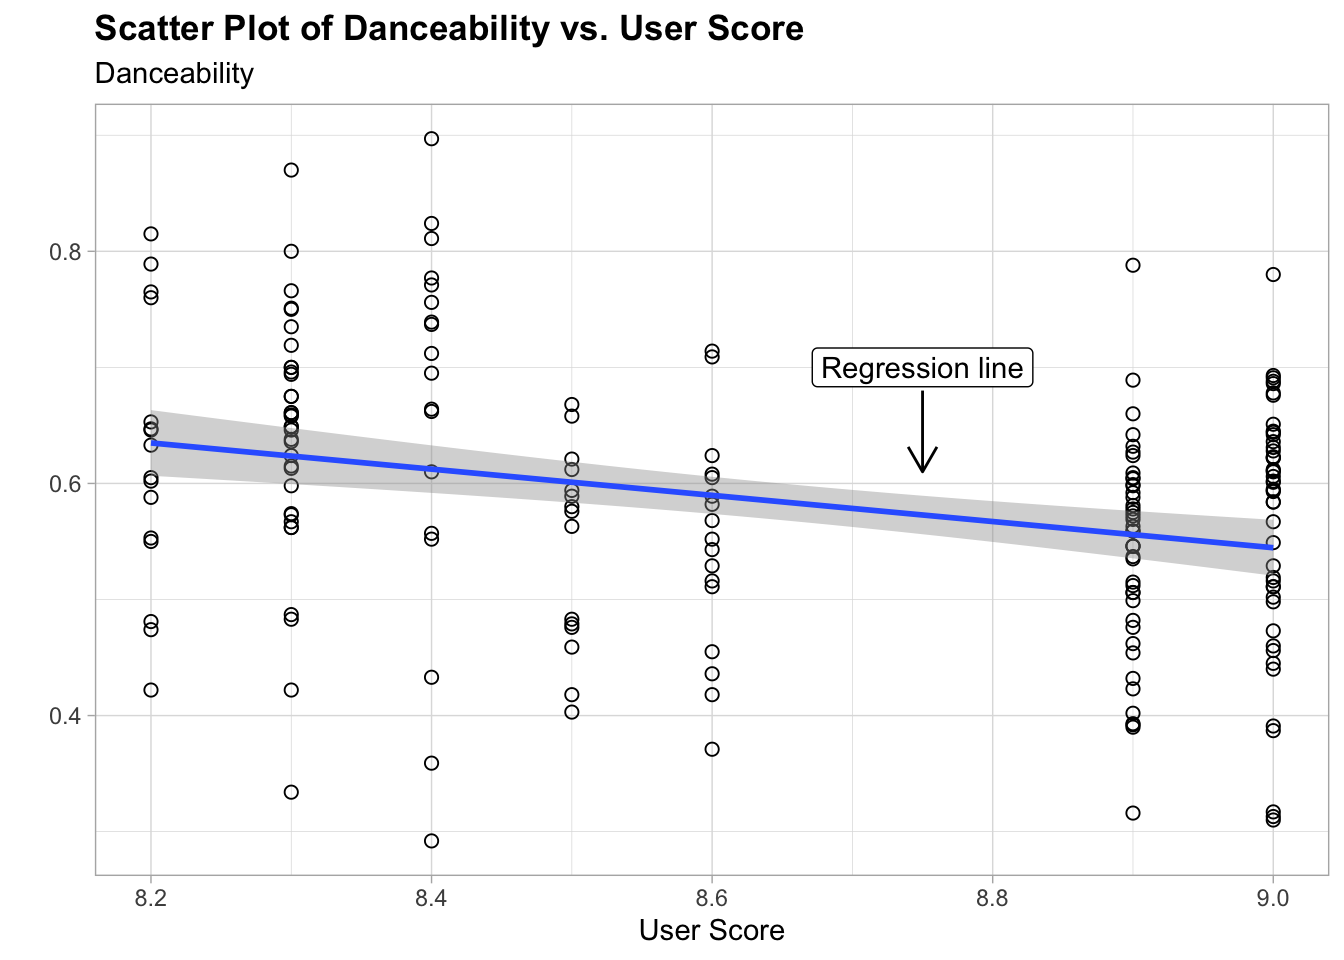
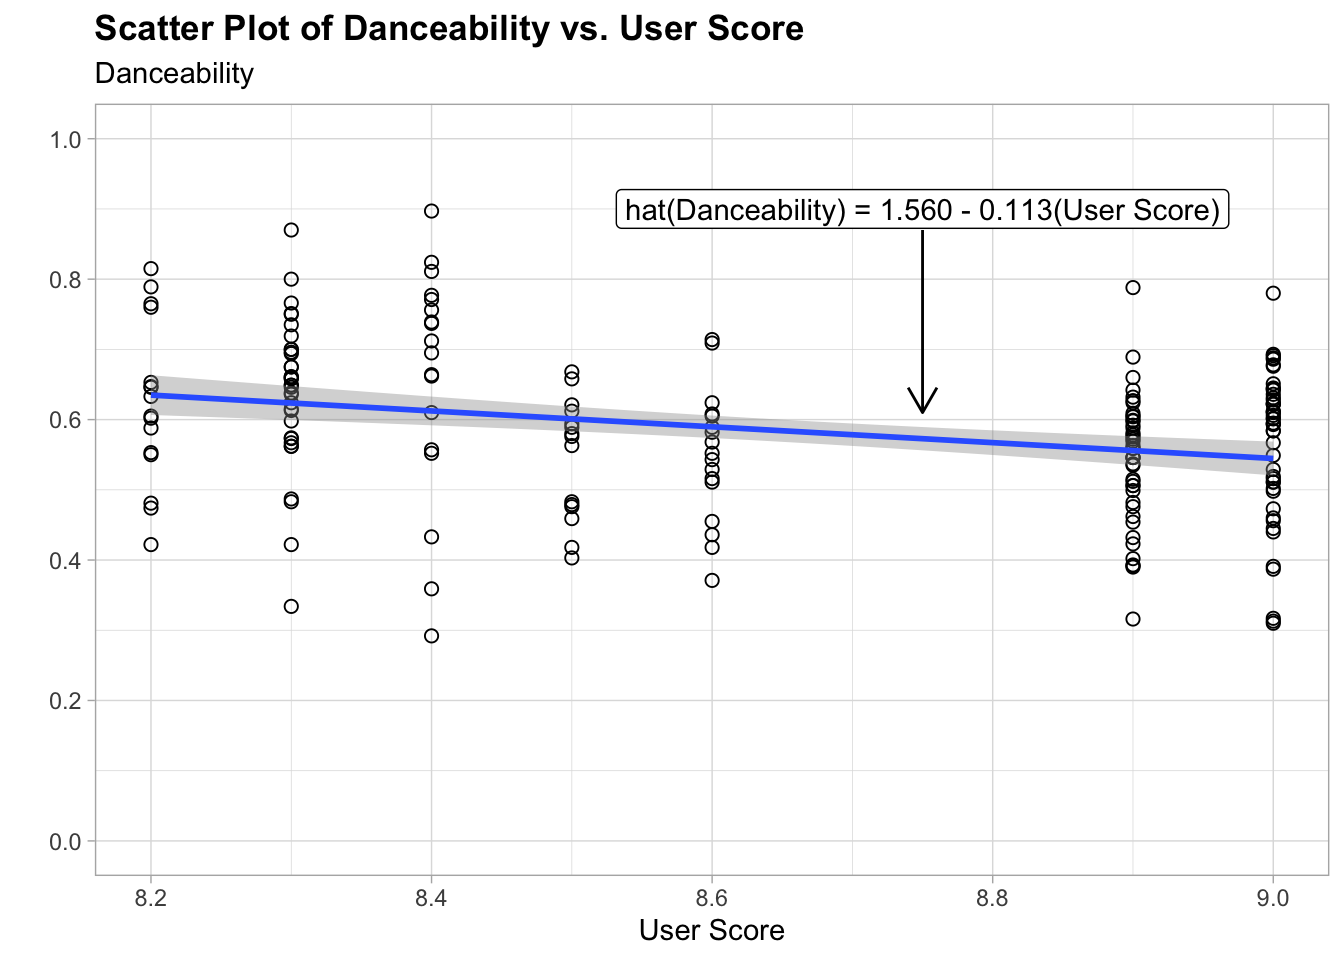
updated results page to reflect script code

diff --git a/results/results.html b/results/results.html
@@ -141,27 +141,16 @@ Specify the column types or set `show_col_types = FALSE` to quiet this message.
 <span id="cb3-9"><a href="#cb3-9" aria-hidden="true" tabindex="-1"></a>  <span class="fu">theme</span>(<span class="at">plot.title =</span> <span class="fu">element_text</span>(<span class="at">face =</span> <span class="st">"bold"</span>)) <span class="sc">+</span></span>
 <span id="cb3-10"><a href="#cb3-10" aria-hidden="true" tabindex="-1"></a>  <span class="fu">annotate</span>(<span class="at">geom =</span> <span class="st">"label"</span>,</span>
 <span id="cb3-11"><a href="#cb3-11" aria-hidden="true" tabindex="-1"></a>           <span class="at">x =</span> <span class="fl">8.75</span>,</span>
-<span id="cb3-12"><a href="#cb3-12" aria-hidden="true" tabindex="-1"></a>           <span class="at">y =</span> <span class="fl">0.7</span>,</span>
-<span id="cb3-13"><a href="#cb3-13" aria-hidden="true" tabindex="-1"></a>           <span class="at">label =</span> <span class="st">"Regression line"</span>) <span class="sc">+</span></span>
+<span id="cb3-12"><a href="#cb3-12" aria-hidden="true" tabindex="-1"></a>           <span class="at">y =</span> <span class="fl">0.9</span>,</span>
+<span id="cb3-13"><a href="#cb3-13" aria-hidden="true" tabindex="-1"></a>           <span class="at">label =</span> <span class="st">"hat(Danceability) = 1.560 - 0.113(User Score)"</span>) <span class="sc">+</span></span>
 <span id="cb3-14"><a href="#cb3-14" aria-hidden="true" tabindex="-1"></a>  <span class="fu">annotate</span>(<span class="at">geom =</span> <span class="st">"segment"</span>,</span>
 <span id="cb3-15"><a href="#cb3-15" aria-hidden="true" tabindex="-1"></a>           <span class="at">x =</span> <span class="fl">8.75</span>,</span>
-<span id="cb3-16"><a href="#cb3-16" aria-hidden="true" tabindex="-1"></a>           <span class="at">y =</span> <span class="fl">0.68</span>,</span>
+<span id="cb3-16"><a href="#cb3-16" aria-hidden="true" tabindex="-1"></a>           <span class="at">y =</span> <span class="fl">0.87</span>,</span>
 <span id="cb3-17"><a href="#cb3-17" aria-hidden="true" tabindex="-1"></a>           <span class="at">xend =</span> <span class="fl">8.75</span>,</span>
 <span id="cb3-18"><a href="#cb3-18" aria-hidden="true" tabindex="-1"></a>           <span class="at">yend =</span> <span class="fl">0.61</span>,</span>
 <span id="cb3-19"><a href="#cb3-19" aria-hidden="true" tabindex="-1"></a>           <span class="at">arrow =</span> <span class="fu">arrow</span>(<span class="at">length =</span> <span class="fu">unit</span>(<span class="fl">0.15</span>, <span class="st">"inches"</span>))) <span class="sc">+</span></span>
-<span id="cb3-20"><a href="#cb3-20" aria-hidden="true" tabindex="-1"></a>  <span class="fu">scale_y_continuous</span>(<span class="at">breaks =</span> <span class="fu">c</span>(<span class="fl">0.2</span>, <span class="fl">0.4</span>, <span class="fl">0.6</span>,  <span class="fl">0.8</span>, <span class="fl">1.0</span>))</span></code><button title="Copy to Clipboard" class="code-copy-button"><i class="bi"></i></button></pre></div>
+<span id="cb3-20"><a href="#cb3-20" aria-hidden="true" tabindex="-1"></a>  <span class="fu">scale_y_continuous</span>(<span class="at">breaks =</span> <span class="fu">c</span>(<span class="dv">0</span>, <span class="fl">0.2</span>, <span class="fl">0.4</span>, <span class="fl">0.6</span>, <span class="fl">0.8</span>, <span class="fl">1.0</span>), <span class="at">limits =</span> <span class="fu">c</span>(<span class="dv">0</span>,<span class="dv">1</span>))</span></code><button title="Copy to Clipboard" class="code-copy-button"><i class="bi"></i></button></pre></div>
 </details>
-<div class="cell-output cell-output-stderr">
-<pre><code>`geom_smooth()` using formula = 'y ~ x'</code></pre>
-</div>
-<div class="cell-output cell-output-stderr">
-<pre><code>Warning: Removed 3 rows containing non-finite outside the scale range
-(`stat_smooth()`).</code></pre>
-</div>
-<div class="cell-output cell-output-stderr">
-<pre><code>Warning: Removed 3 rows containing missing values or values outside the scale range
-(`geom_point()`).</code></pre>
-</div>
 <div class="cell-output-display">
 <p><img src="results_files/figure-html/unnamed-chunk-3-1.png" class="img-fluid" width="672"></p>
 </div>
@@ -177,22 +166,22 @@ Specify the column types or set `show_col_types = FALSE` to quiet this message.
 <div class="cell">
 <details>
 <summary>Code</summary>
-<div class="sourceCode cell-code" id="cb7"><pre class="sourceCode r code-with-copy"><code class="sourceCode r"><span id="cb7-1"><a href="#cb7-1" aria-hidden="true" tabindex="-1"></a><span class="fu">par</span>(<span class="at">mfrow=</span><span class="fu">c</span>(<span class="dv">1</span>,<span class="dv">3</span>))</span>
-<span id="cb7-2"><a href="#cb7-2" aria-hidden="true" tabindex="-1"></a><span class="fu">plot</span>(<span class="fu">resid</span>(taylor.fit1)<span class="sc">~</span><span class="fu">fitted</span>(taylor.fit1), <span class="at">xlab=</span><span class="st">'Fitted'</span>, <span class="at">ylab=</span><span class="st">'Residuals'</span>);<span class="fu">abline</span>(<span class="at">h=</span><span class="dv">0</span>,<span class="at">lty=</span><span class="dv">2</span>)</span>
-<span id="cb7-3"><a href="#cb7-3" aria-hidden="true" tabindex="-1"></a><span class="fu">qqnorm</span>(<span class="fu">resid</span>(taylor.fit1),<span class="at">ylab=</span><span class="st">'Residuals'</span>); <span class="fu">qqline</span>(<span class="fu">resid</span>(taylor.fit1),<span class="at">lty=</span><span class="dv">2</span>)</span>
-<span id="cb7-4"><a href="#cb7-4" aria-hidden="true" tabindex="-1"></a><span class="fu">hist</span>(<span class="fu">resid</span>(taylor.fit1),<span class="at">main=</span><span class="st">""</span>, <span class="at">xlab=</span><span class="st">"Residuals"</span>,<span class="at">col=</span><span class="st">'lightblue'</span>)</span></code><button title="Copy to Clipboard" class="code-copy-button"><i class="bi"></i></button></pre></div>
+<div class="sourceCode cell-code" id="cb4"><pre class="sourceCode r code-with-copy"><code class="sourceCode r"><span id="cb4-1"><a href="#cb4-1" aria-hidden="true" tabindex="-1"></a><span class="fu">par</span>(<span class="at">mfrow=</span><span class="fu">c</span>(<span class="dv">1</span>,<span class="dv">3</span>))</span>
+<span id="cb4-2"><a href="#cb4-2" aria-hidden="true" tabindex="-1"></a><span class="fu">plot</span>(<span class="fu">resid</span>(taylor.fit1)<span class="sc">~</span><span class="fu">fitted</span>(taylor.fit1), <span class="at">xlab=</span><span class="st">'Fitted'</span>, <span class="at">ylab=</span><span class="st">'Residuals'</span>);<span class="fu">abline</span>(<span class="at">h=</span><span class="dv">0</span>,<span class="at">lty=</span><span class="dv">2</span>)</span>
+<span id="cb4-3"><a href="#cb4-3" aria-hidden="true" tabindex="-1"></a><span class="fu">qqnorm</span>(<span class="fu">resid</span>(taylor.fit1),<span class="at">ylab=</span><span class="st">'Residuals'</span>); <span class="fu">qqline</span>(<span class="fu">resid</span>(taylor.fit1),<span class="at">lty=</span><span class="dv">2</span>)</span>
+<span id="cb4-4"><a href="#cb4-4" aria-hidden="true" tabindex="-1"></a><span class="fu">hist</span>(<span class="fu">resid</span>(taylor.fit1),<span class="at">main=</span><span class="st">""</span>, <span class="at">xlab=</span><span class="st">"Residuals"</span>,<span class="at">col=</span><span class="st">'lightblue'</span>)</span></code><button title="Copy to Clipboard" class="code-copy-button"><i class="bi"></i></button></pre></div>
 </details>
 <div class="cell-output-display">
 <p><img src="results_files/figure-html/unnamed-chunk-4-1.png" class="img-fluid" width="672"></p>
 </div>
 </div>
 </section>
-<section id="results-and-conclusion" class="level1">
-<h1>Results and conclusion</h1>
+<section id="result-of-t-test-on-slope-coefficient-for-user-score-and-confidence-interval" class="level1">
+<h1>Result of t-test on slope coefficient for user score and confidence interval</h1>
 <div class="cell">
 <details>
 <summary>Code</summary>
-<div class="sourceCode cell-code" id="cb8"><pre class="sourceCode r code-with-copy"><code class="sourceCode r"><span id="cb8-1"><a href="#cb8-1" aria-hidden="true" tabindex="-1"></a><span class="fu">summary</span>(taylor.fit1)</span></code><button title="Copy to Clipboard" class="code-copy-button"><i class="bi"></i></button></pre></div>
+<div class="sourceCode cell-code" id="cb5"><pre class="sourceCode r code-with-copy"><code class="sourceCode r"><span id="cb5-1"><a href="#cb5-1" aria-hidden="true" tabindex="-1"></a><span class="fu">summary</span>(taylor.fit1)</span></code><button title="Copy to Clipboard" class="code-copy-button"><i class="bi"></i></button></pre></div>
 </details>
 <div class="cell-output cell-output-stdout">
 <pre><code>
@@ -219,7 +208,7 @@ F-statistic: 18.24 on 1 and 189 DF,  p-value: 3.076e-05</code></pre>
 <div class="cell">
 <details>
 <summary>Code</summary>
-<div class="sourceCode cell-code" id="cb10"><pre class="sourceCode r code-with-copy"><code class="sourceCode r"><span id="cb10-1"><a href="#cb10-1" aria-hidden="true" tabindex="-1"></a><span class="fu">confint</span>(taylor.fit1, <span class="at">level =</span> <span class="fl">0.95</span>)</span></code><button title="Copy to Clipboard" class="code-copy-button"><i class="bi"></i></button></pre></div>
+<div class="sourceCode cell-code" id="cb7"><pre class="sourceCode r code-with-copy"><code class="sourceCode r"><span id="cb7-1"><a href="#cb7-1" aria-hidden="true" tabindex="-1"></a><span class="fu">confint</span>(taylor.fit1, <span class="at">level =</span> <span class="fl">0.95</span>)</span></code><button title="Copy to Clipboard" class="code-copy-button"><i class="bi"></i></button></pre></div>
 </details>
 <div class="cell-output cell-output-stdout">
 <pre><code>                2.5 %      97.5 %
@@ -233,38 +222,28 @@ user_score  -0.164987 -0.06073933</code></pre>
 <div class="cell">
 <details>
 <summary>Code</summary>
-<div class="sourceCode cell-code" id="cb12"><pre class="sourceCode r code-with-copy"><code class="sourceCode r"><span id="cb12-1"><a href="#cb12-1" aria-hidden="true" tabindex="-1"></a>taylor.fit2<span class="ot">=</span><span class="fu">lm</span>(danceability<span class="sc">~</span>metacritic_score, <span class="at">data =</span> taylor_albums_joined)</span>
-<span id="cb12-2"><a href="#cb12-2" aria-hidden="true" tabindex="-1"></a></span>
-<span id="cb12-3"><a href="#cb12-3" aria-hidden="true" tabindex="-1"></a>taylor_albums_joined <span class="sc">|&gt;</span></span>
-<span id="cb12-4"><a href="#cb12-4" aria-hidden="true" tabindex="-1"></a>  <span class="fu">ggplot</span>(<span class="fu">aes</span>(<span class="at">x =</span> metacritic_score, <span class="at">y =</span> danceability)) <span class="sc">+</span></span>
-<span id="cb12-5"><a href="#cb12-5" aria-hidden="true" tabindex="-1"></a>  <span class="fu">geom_point</span>(<span class="at">size =</span> <span class="dv">2</span>, <span class="at">shape =</span> <span class="dv">1</span>) <span class="sc">+</span></span>
-<span id="cb12-6"><a href="#cb12-6" aria-hidden="true" tabindex="-1"></a>  <span class="fu">geom_smooth</span>(<span class="at">method =</span> <span class="st">"lm"</span>) <span class="sc">+</span></span>
-<span id="cb12-7"><a href="#cb12-7" aria-hidden="true" tabindex="-1"></a>  <span class="fu">labs</span>(<span class="at">title =</span> <span class="st">"Scatter Plot of Danceability vs. Metacritic Score"</span>, <span class="at">x =</span> <span class="st">"Metacritic Score"</span>, <span class="at">y =</span> <span class="st">" "</span>, <span class="at">subtitle =</span> <span class="st">"Danceability"</span>) <span class="sc">+</span></span>
-<span id="cb12-8"><a href="#cb12-8" aria-hidden="true" tabindex="-1"></a>  <span class="fu">theme_light</span>() <span class="sc">+</span></span>
-<span id="cb12-9"><a href="#cb12-9" aria-hidden="true" tabindex="-1"></a>  <span class="fu">theme</span>(<span class="at">plot.title =</span> <span class="fu">element_text</span>(<span class="at">face =</span> <span class="st">"bold"</span>)) <span class="sc">+</span></span>
-<span id="cb12-10"><a href="#cb12-10" aria-hidden="true" tabindex="-1"></a>  <span class="fu">annotate</span>(<span class="at">geom =</span> <span class="st">"label"</span>,</span>
-<span id="cb12-11"><a href="#cb12-11" aria-hidden="true" tabindex="-1"></a>           <span class="at">x =</span> <span class="fl">72.5</span>,</span>
-<span id="cb12-12"><a href="#cb12-12" aria-hidden="true" tabindex="-1"></a>           <span class="at">y =</span> <span class="fl">0.45</span>,</span>
-<span id="cb12-13"><a href="#cb12-13" aria-hidden="true" tabindex="-1"></a>           <span class="at">label =</span> <span class="st">"Regression line"</span>)  <span class="sc">+</span></span>
-<span id="cb12-14"><a href="#cb12-14" aria-hidden="true" tabindex="-1"></a>  <span class="fu">annotate</span>(<span class="at">geom =</span> <span class="st">"segment"</span>,</span>
-<span id="cb12-15"><a href="#cb12-15" aria-hidden="true" tabindex="-1"></a>           <span class="at">x =</span> <span class="fl">72.5</span>,</span>
-<span id="cb12-16"><a href="#cb12-16" aria-hidden="true" tabindex="-1"></a>           <span class="at">y =</span> <span class="fl">0.48</span>,</span>
-<span id="cb12-17"><a href="#cb12-17" aria-hidden="true" tabindex="-1"></a>           <span class="at">xend =</span> <span class="fl">72.5</span>,</span>
-<span id="cb12-18"><a href="#cb12-18" aria-hidden="true" tabindex="-1"></a>           <span class="at">yend =</span> <span class="fl">0.56</span>,</span>
-<span id="cb12-19"><a href="#cb12-19" aria-hidden="true" tabindex="-1"></a>           <span class="at">arrow =</span> <span class="fu">arrow</span>(<span class="at">length =</span> <span class="fu">unit</span>(<span class="fl">0.15</span>, <span class="st">"inches"</span>))) <span class="sc">+</span></span>
-<span id="cb12-20"><a href="#cb12-20" aria-hidden="true" tabindex="-1"></a>  <span class="fu">scale_y_continuous</span>(<span class="at">breaks =</span> <span class="fu">c</span>(<span class="fl">0.2</span>, <span class="fl">0.4</span>, <span class="fl">0.6</span>,  <span class="fl">0.8</span>, <span class="fl">1.0</span>))</span></code><button title="Copy to Clipboard" class="code-copy-button"><i class="bi"></i></button></pre></div>
+<div class="sourceCode cell-code" id="cb9"><pre class="sourceCode r code-with-copy"><code class="sourceCode r"><span id="cb9-1"><a href="#cb9-1" aria-hidden="true" tabindex="-1"></a>taylor.fit2<span class="ot">=</span><span class="fu">lm</span>(danceability<span class="sc">~</span>metacritic_score, <span class="at">data =</span> taylor_albums_joined)</span>
+<span id="cb9-2"><a href="#cb9-2" aria-hidden="true" tabindex="-1"></a></span>
+<span id="cb9-3"><a href="#cb9-3" aria-hidden="true" tabindex="-1"></a>taylor_albums_joined <span class="sc">|&gt;</span></span>
+<span id="cb9-4"><a href="#cb9-4" aria-hidden="true" tabindex="-1"></a>  <span class="fu">ggplot</span>(<span class="fu">aes</span>(<span class="at">x =</span> metacritic_score, <span class="at">y =</span> danceability)) <span class="sc">+</span></span>
+<span id="cb9-5"><a href="#cb9-5" aria-hidden="true" tabindex="-1"></a>  <span class="fu">geom_point</span>(<span class="at">size =</span> <span class="dv">2</span>, <span class="at">shape =</span> <span class="dv">1</span>) <span class="sc">+</span></span>
+<span id="cb9-6"><a href="#cb9-6" aria-hidden="true" tabindex="-1"></a>  <span class="fu">geom_smooth</span>(<span class="at">method =</span> <span class="st">"lm"</span>) <span class="sc">+</span></span>
+<span id="cb9-7"><a href="#cb9-7" aria-hidden="true" tabindex="-1"></a>  <span class="fu">labs</span>(<span class="at">title =</span> <span class="st">"Scatter Plot of Danceability vs. Metacritic Score"</span>, <span class="at">x =</span> <span class="st">"Metacritic Score"</span>, <span class="at">y =</span> <span class="st">" "</span>, <span class="at">subtitle =</span> <span class="st">"Danceability"</span>) <span class="sc">+</span></span>
+<span id="cb9-8"><a href="#cb9-8" aria-hidden="true" tabindex="-1"></a>  <span class="fu">theme_light</span>() <span class="sc">+</span></span>
+<span id="cb9-9"><a href="#cb9-9" aria-hidden="true" tabindex="-1"></a>  <span class="fu">theme</span>(<span class="at">plot.title =</span> <span class="fu">element_text</span>(<span class="at">face =</span> <span class="st">"bold"</span>)) <span class="sc">+</span></span>
+<span id="cb9-10"><a href="#cb9-10" aria-hidden="true" tabindex="-1"></a>  <span class="fu">annotate</span>(<span class="at">geom =</span> <span class="st">"label"</span>,</span>
+<span id="cb9-11"><a href="#cb9-11" aria-hidden="true" tabindex="-1"></a>           <span class="at">x =</span> <span class="dv">73</span>,</span>
+<span id="cb9-12"><a href="#cb9-12" aria-hidden="true" tabindex="-1"></a>           <span class="at">y =</span> <span class="fl">0.2</span>,</span>
+<span id="cb9-13"><a href="#cb9-13" aria-hidden="true" tabindex="-1"></a>           <span class="at">label =</span> <span class="st">"hat(Danceability) = 0.710 - 0.002(Metacritic Score)"</span>,</span>
+<span id="cb9-14"><a href="#cb9-14" aria-hidden="true" tabindex="-1"></a>           <span class="at">size =</span> <span class="fl">3.2</span>)  <span class="sc">+</span></span>
+<span id="cb9-15"><a href="#cb9-15" aria-hidden="true" tabindex="-1"></a>  <span class="fu">annotate</span>(<span class="at">geom =</span> <span class="st">"segment"</span>,</span>
+<span id="cb9-16"><a href="#cb9-16" aria-hidden="true" tabindex="-1"></a>           <span class="at">x =</span> <span class="fl">72.5</span>,</span>
+<span id="cb9-17"><a href="#cb9-17" aria-hidden="true" tabindex="-1"></a>           <span class="at">y =</span> <span class="fl">0.24</span>,</span>
+<span id="cb9-18"><a href="#cb9-18" aria-hidden="true" tabindex="-1"></a>           <span class="at">xend =</span> <span class="fl">72.5</span>,</span>
+<span id="cb9-19"><a href="#cb9-19" aria-hidden="true" tabindex="-1"></a>           <span class="at">yend =</span> <span class="fl">0.56</span>,</span>
+<span id="cb9-20"><a href="#cb9-20" aria-hidden="true" tabindex="-1"></a>           <span class="at">arrow =</span> <span class="fu">arrow</span>(<span class="at">length =</span> <span class="fu">unit</span>(<span class="fl">0.15</span>, <span class="st">"inches"</span>))) <span class="sc">+</span></span>
+<span id="cb9-21"><a href="#cb9-21" aria-hidden="true" tabindex="-1"></a>  <span class="fu">scale_y_continuous</span>(<span class="at">breaks =</span> <span class="fu">c</span>(<span class="dv">0</span>, <span class="fl">0.2</span>, <span class="fl">0.4</span>, <span class="fl">0.6</span>, <span class="fl">0.8</span>, <span class="fl">1.0</span>), <span class="at">limits =</span> <span class="fu">c</span>(<span class="dv">0</span>,<span class="dv">1</span>))</span></code><button title="Copy to Clipboard" class="code-copy-button"><i class="bi"></i></button></pre></div>
 </details>
-<div class="cell-output cell-output-stderr">
-<pre><code>`geom_smooth()` using formula = 'y ~ x'</code></pre>
-</div>
-<div class="cell-output cell-output-stderr">
-<pre><code>Warning: Removed 3 rows containing non-finite outside the scale range
-(`stat_smooth()`).</code></pre>
-</div>
-<div class="cell-output cell-output-stderr">
-<pre><code>Warning: Removed 3 rows containing missing values or values outside the scale range
-(`geom_point()`).</code></pre>
-</div>
 <div class="cell-output-display">
 <p><img src="results_files/figure-html/unnamed-chunk-7-1.png" class="img-fluid" width="672"></p>
 </div>
@@ -280,22 +259,22 @@ user_score  -0.164987 -0.06073933</code></pre>
 <div class="cell">
 <details>
 <summary>Code</summary>
-<div class="sourceCode cell-code" id="cb16"><pre class="sourceCode r code-with-copy"><code class="sourceCode r"><span id="cb16-1"><a href="#cb16-1" aria-hidden="true" tabindex="-1"></a><span class="fu">par</span>(<span class="at">mfrow=</span><span class="fu">c</span>(<span class="dv">1</span>,<span class="dv">3</span>))</span>
-<span id="cb16-2"><a href="#cb16-2" aria-hidden="true" tabindex="-1"></a><span class="fu">plot</span>(<span class="fu">resid</span>(taylor.fit2)<span class="sc">~</span><span class="fu">fitted</span>(taylor.fit2), <span class="at">xlab=</span><span class="st">'Fitted'</span>, <span class="at">ylab=</span><span class="st">'Residuals'</span>);<span class="fu">abline</span>(<span class="at">h=</span><span class="dv">0</span>,<span class="at">lty=</span><span class="dv">2</span>)</span>
-<span id="cb16-3"><a href="#cb16-3" aria-hidden="true" tabindex="-1"></a><span class="fu">qqnorm</span>(<span class="fu">resid</span>(taylor.fit2),<span class="at">ylab=</span><span class="st">'Residuals'</span>); <span class="fu">qqline</span>(<span class="fu">resid</span>(taylor.fit2),<span class="at">lty=</span><span class="dv">2</span>)</span>
-<span id="cb16-4"><a href="#cb16-4" aria-hidden="true" tabindex="-1"></a><span class="fu">hist</span>(<span class="fu">resid</span>(taylor.fit2),<span class="at">main=</span><span class="st">""</span>, <span class="at">xlab=</span><span class="st">"Residuals"</span>,<span class="at">col=</span><span class="st">'lightblue'</span>)</span></code><button title="Copy to Clipboard" class="code-copy-button"><i class="bi"></i></button></pre></div>
+<div class="sourceCode cell-code" id="cb10"><pre class="sourceCode r code-with-copy"><code class="sourceCode r"><span id="cb10-1"><a href="#cb10-1" aria-hidden="true" tabindex="-1"></a><span class="fu">par</span>(<span class="at">mfrow=</span><span class="fu">c</span>(<span class="dv">1</span>,<span class="dv">3</span>))</span>
+<span id="cb10-2"><a href="#cb10-2" aria-hidden="true" tabindex="-1"></a><span class="fu">plot</span>(<span class="fu">resid</span>(taylor.fit2)<span class="sc">~</span><span class="fu">fitted</span>(taylor.fit2), <span class="at">xlab=</span><span class="st">'Fitted'</span>, <span class="at">ylab=</span><span class="st">'Residuals'</span>);<span class="fu">abline</span>(<span class="at">h=</span><span class="dv">0</span>,<span class="at">lty=</span><span class="dv">2</span>)</span>
+<span id="cb10-3"><a href="#cb10-3" aria-hidden="true" tabindex="-1"></a><span class="fu">qqnorm</span>(<span class="fu">resid</span>(taylor.fit2),<span class="at">ylab=</span><span class="st">'Residuals'</span>); <span class="fu">qqline</span>(<span class="fu">resid</span>(taylor.fit2),<span class="at">lty=</span><span class="dv">2</span>)</span>
+<span id="cb10-4"><a href="#cb10-4" aria-hidden="true" tabindex="-1"></a><span class="fu">hist</span>(<span class="fu">resid</span>(taylor.fit2),<span class="at">main=</span><span class="st">""</span>, <span class="at">xlab=</span><span class="st">"Residuals"</span>,<span class="at">col=</span><span class="st">'lightblue'</span>)</span></code><button title="Copy to Clipboard" class="code-copy-button"><i class="bi"></i></button></pre></div>
 </details>
 <div class="cell-output-display">
 <p><img src="results_files/figure-html/unnamed-chunk-8-1.png" class="img-fluid" width="672"></p>
 </div>
 </div>
 </section>
-<section id="results-and-conclusion-1" class="level1">
-<h1>Results and conclusion</h1>
+<section id="result-of-t-test-on-slope-coefficient-for-metacritic-score-and-confidence-interval" class="level1">
+<h1>Result of t-test on slope coefficient for Metacritic score and confidence interval</h1>
 <div class="cell">
 <details>
 <summary>Code</summary>
-<div class="sourceCode cell-code" id="cb17"><pre class="sourceCode r code-with-copy"><code class="sourceCode r"><span id="cb17-1"><a href="#cb17-1" aria-hidden="true" tabindex="-1"></a><span class="fu">summary</span>(taylor.fit2)</span></code><button title="Copy to Clipboard" class="code-copy-button"><i class="bi"></i></button></pre></div>
+<div class="sourceCode cell-code" id="cb11"><pre class="sourceCode r code-with-copy"><code class="sourceCode r"><span id="cb11-1"><a href="#cb11-1" aria-hidden="true" tabindex="-1"></a><span class="fu">summary</span>(taylor.fit2)</span></code><button title="Copy to Clipboard" class="code-copy-button"><i class="bi"></i></button></pre></div>
 </details>
 <div class="cell-output cell-output-stdout">
 <pre><code>
@@ -322,7 +301,7 @@ F-statistic: 1.735 on 1 and 189 DF,  p-value: 0.1893</code></pre>
 <div class="cell">
 <details>
 <summary>Code</summary>
-<div class="sourceCode cell-code" id="cb19"><pre class="sourceCode r code-with-copy"><code class="sourceCode r"><span id="cb19-1"><a href="#cb19-1" aria-hidden="true" tabindex="-1"></a><span class="fu">confint</span>(taylor.fit2, <span class="at">level =</span> <span class="fl">0.95</span>)</span></code><button title="Copy to Clipboard" class="code-copy-button"><i class="bi"></i></button></pre></div>
+<div class="sourceCode cell-code" id="cb13"><pre class="sourceCode r code-with-copy"><code class="sourceCode r"><span id="cb13-1"><a href="#cb13-1" aria-hidden="true" tabindex="-1"></a><span class="fu">confint</span>(taylor.fit2, <span class="at">level =</span> <span class="fl">0.95</span>)</span></code><button title="Copy to Clipboard" class="code-copy-button"><i class="bi"></i></button></pre></div>
 </details>
 <div class="cell-output cell-output-stdout">
 <pre><code>                        2.5 %       97.5 %
